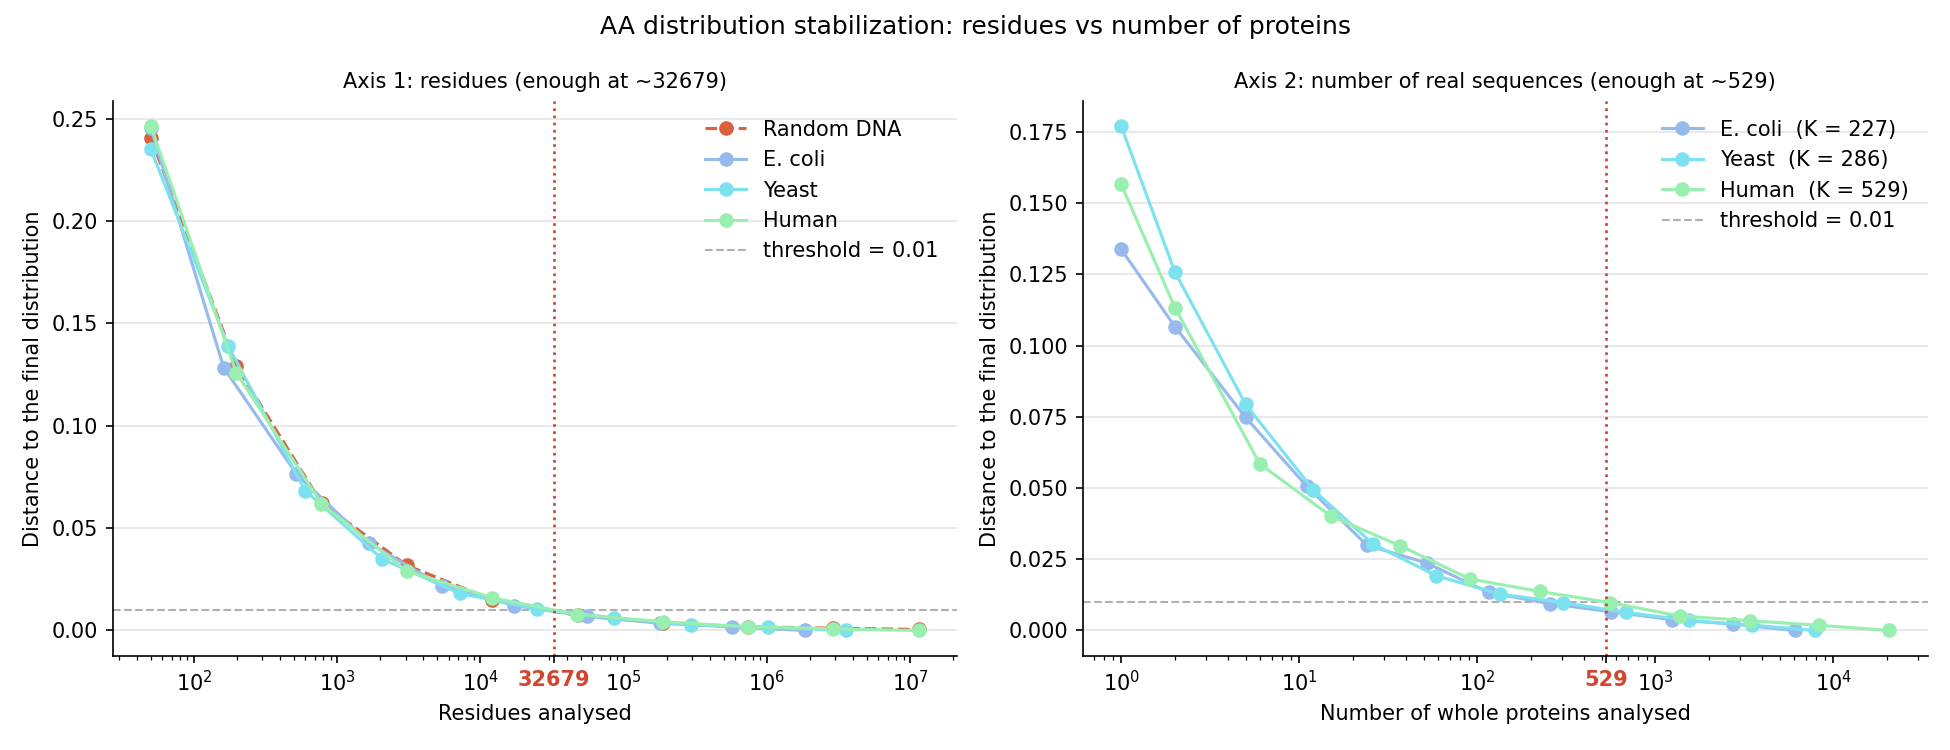
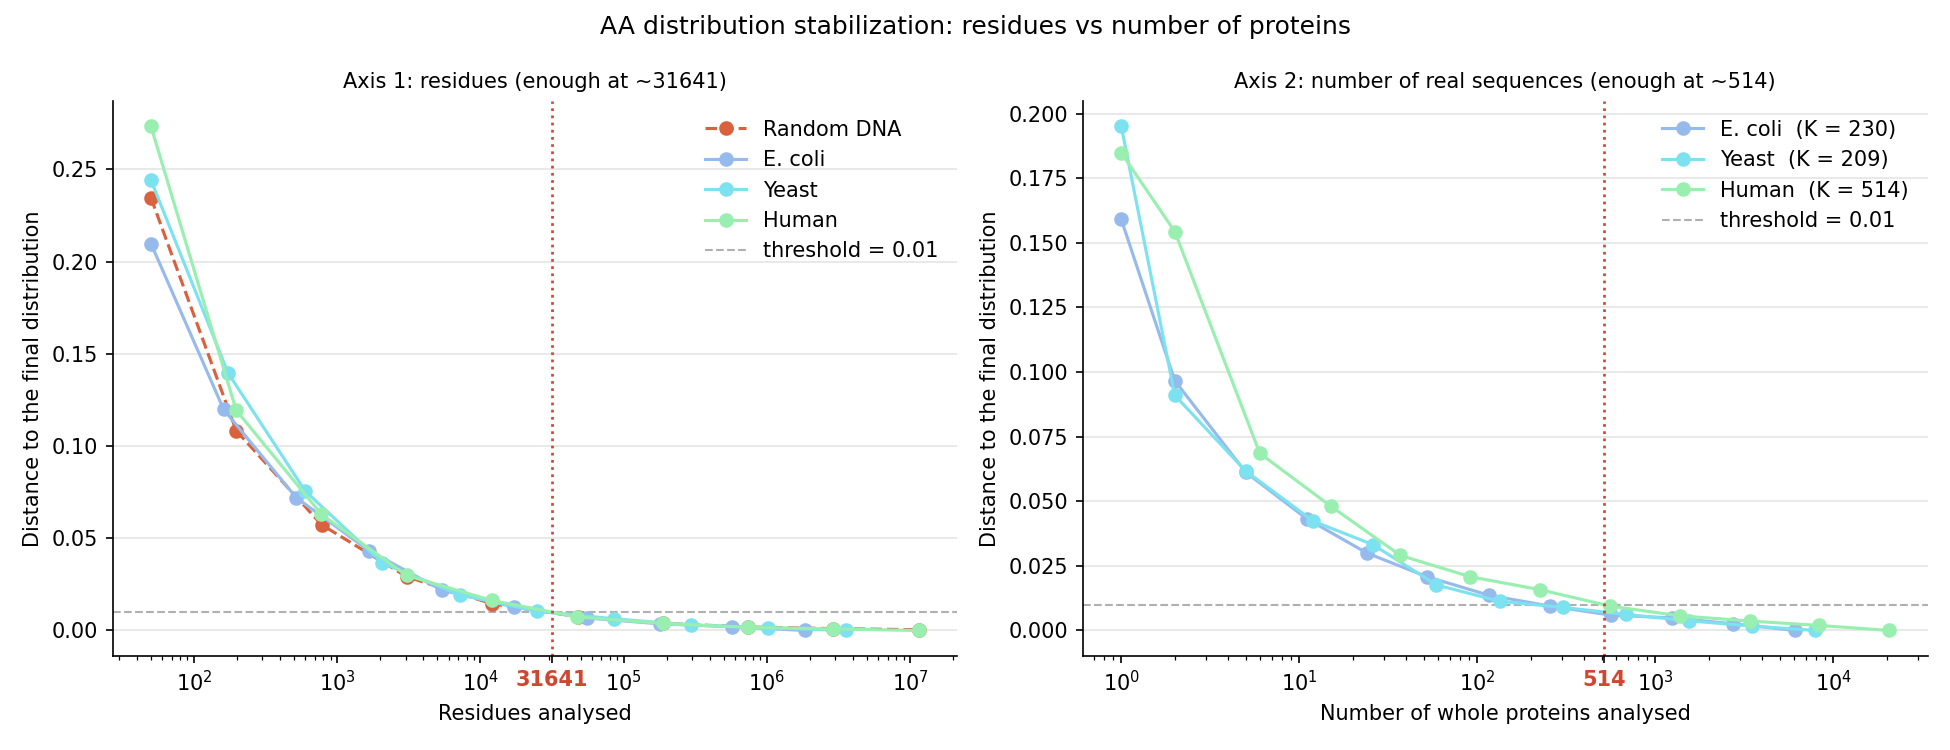
small fixes

diff --git a/exercises/ex4/b.py b/exercises/ex4/b.py
@@ -27,6 +27,7 @@ Produces:  aa_stabilized.png  and  aa_sample_sizes.png
 """
 
 import os
+import random
 
 import numpy as np
 import matplotlib.pyplot as plt
@@ -42,6 +43,7 @@ from stats import (
 from exercises.ex4.a import (
     COLOURS,
     RANDOM_SOURCES,
+    SAMPLE_SEED,
     build_sources,
     calculate_data_length,
     download_seqs,
@@ -50,6 +52,10 @@ from exercises.ex4.a import (
 HERE = os.path.dirname(os.path.abspath(__file__))
 
 def run():
+    # N and K come out of shuffled orders, so the seed is what makes a run
+    # repeat. Without it every run reports different numbers.
+    random.seed(SAMPLE_SEED)
+
     real_seqs = download_seqs()
     data_length = calculate_data_length(real_seqs)
     sources = build_sources(real_seqs, data_length)
@@ -75,9 +81,9 @@ def run():
 
     plot_convergence(curves, N, count_curves, K_by_organism, K)
 
-    # Step 2: compare the distributions at << N, ~ N, >> N. This one does use
-    # the equal-sized sources of 4a, because it compares sources against each
-    # other and that needs them to carry the same amount of data.
+    # Step 2: compare the distributions at << N, ~ N, >> N. Every source is
+    # sampled by the same prefix length, so the three panels compare equal
+    # amounts of data even though the sources differ in total size.
     final_distributions = {name: freqs(seq) for name, seq in sources.items()}
     plot_regimes(sources, final_distributions, N, data_length)
 

diff --git a/informe.md b/informe.md
@@ -28,15 +28,15 @@ Los totales quedan algo por debajo del número de entradas de cada query porque 
 
 > **4a)** Compare Distribución de aminoácidos de secuencia de proteínas al azar vs. secuencias de proteínas reales.
 
-Se comparan cuatro fuentes con la misma cantidad de residuos (1.848.964, el tamaño del proteoma de *E. coli* K-12, que es el más chico de los tres) para que ninguna tenga ventaja por volumen de datos: una fuente al azar y los proteomas revisados de *E. coli*, levadura y humano. A los tres organismos combinados en partes iguales los llamamos *Natural*; esa es la distribución de referencia que después usa 4e.
+Se comparan cuatro fuentes: los proteomas revisados completos de *E. coli*, levadura y humano, y una fuente al azar del tamaño del más chico de los tres (1.848.964 residuos, el de *E. coli* K-12). Cada organismo entra con todo lo que tiene, porque recortarlos a un tamaño común no hace más justa la comparación y sí aleja a cada uno de su propia distribución. A los tres combinados en partes iguales los llamamos *Natural*; esa es la distribución de referencia que después usa 4e.
 
-La fuente al azar no se arma sorteando aminoácidos con igual probabilidad sino traduciendo ADN aleatorio y descartando los codones stop. La diferencia importa porque el código genético no reparte los codones de manera pareja (leucina tiene seis y metionina uno solo): sortear aminoácidos uniformemente daría una fuente que no se parece a ninguna secuencia obtenida de ADN, y la comparación terminaría midiendo esa desigualdad del código antes que lo que distingue a una proteína real. El caso uniforme igual aparece en las figuras, como la línea punteada en 0,05. Levadura y humano tienen más residuos que *E. coli*, así que se los recorta, y las listas se mezclan antes de hacerlo para que el recorte no termine quedándose con las proteínas depositadas más recientemente.
+La fuente al azar no se arma sorteando aminoácidos con igual probabilidad sino traduciendo ADN aleatorio y descartando los codones stop. La diferencia importa porque el código genético no reparte los codones de manera pareja (leucina tiene seis y metionina uno solo): sortear aminoácidos uniformemente daría una fuente que no se parece a ninguna secuencia obtenida de ADN, y la comparación terminaría midiendo esa desigualdad del código antes que lo que distingue a una proteína real. El caso uniforme igual aparece en las figuras, como la línea punteada en 0,05. Para armar el perfil *Natural* sí hace falta recortar, porque las partes tienen que ser iguales: se toman 1.848.964 residuos de cada organismo, y las listas de proteínas se mezclan antes de recortar para que no queden sólo las depositadas más recientemente.
 
 ![Distribución de aminoácidos](exercises/ex4/aa_distribution.png)
 
 ![Perfil natural vs secuencias al azar](exercises/ex4/aa_natural_vs_random.png)
 
-Medidas con la métrica de 4c, las distancias al perfil Natural son 0,045 para humano, 0,063 para *E. coli*, 0,072 para levadura y 0,131 para la fuente al azar.
+Medidas con la métrica de 4c, las distancias al perfil Natural son 0,046 para humano, 0,063 para *E. coli*, 0,072 para levadura y 0,131 para la fuente al azar.
 
 Leucina aparece con la misma frecuencia en las dos fuentes, 0,098 al azar y 0,100 en los organismos, así que la cantidad de leucina de una secuencia no dice nada sobre su origen. Arginina es el caso opuesto: 0,098 al azar contra 0,052 en los organismos, una diferencia lo bastante grande como para distinguirlas. Lo mismo ocurre con cisteína (0,033 contra 0,016) y, en sentido inverso, con glutámico, aspártico y lisina, que los organismos usan cerca del doble. Los aminoácidos donde las dos fuentes coinciden no aportan información; los que se separan son los candidatos para el detector de 4e.
 
@@ -53,15 +53,15 @@ La consigna nombra dos ejes que no son el mismo: se puede crecer en cantidad de 
 
 ![Estabilización de la distribución](exercises/ex4/aa_stabilized.png)
 
-Las cuatro fuentes se estabilizan en el mismo orden de magnitud, alrededor de 3·10⁴ residuos: 34.200 la fuente al azar, 34.000 *E. coli*, 28.400 levadura y 32.400 humano. En proteínas enteras alcanza con unas 252 para *E. coli*, 220 para levadura y 406 para humano.
+Las cuatro fuentes se estabilizan en el mismo orden de magnitud, alrededor de 3·10⁴ residuos: 29.212 la fuente al azar, 29.269 *E. coli*, 28.594 levadura y 31.641 humano. En proteínas enteras alcanza con unas 230 para *E. coli*, 209 para levadura y 514 para humano.
 
-Los dos ejes no dan el mismo número. Las 406 proteínas humanas suman unos 226.000 residuos, siete veces el N del eje 1, así que hacen falta más residuos para estabilizar la distribución cuando llegan agrupados en proteínas enteras que cuando se cuentan sueltos. La brecha además es mayor cuanto más largas son las proteínas del organismo: 2,3 en *E. coli*, que promedia 305 residuos por proteína, 3,5 en levadura con 449 y 7,0 en humano con 556.
+Los dos ejes no dan el mismo número. Las 514 proteínas humanas suman unos 286.000 residuos, nueve veces el N del eje 1, así que hacen falta más residuos para estabilizar la distribución cuando llegan agrupados en proteínas enteras que cuando se cuentan sueltos. La brecha además es mayor cuanto más largas son las proteínas del organismo: 2,4 en *E. coli*, que promedia 305 residuos por proteína, 3,3 en levadura con 449 y 9,0 en humano con 556.
 
 ![Distribuciones a distintos tamaños de muestra](exercises/ex4/aa_sample_sizes.png)
 
 Los tres gráficos de la figura de arriba muestran lo mismo de otra forma, con la distribución completa a tres tamaños de muestra. Con R = 1000, muy por debajo de N, las barras son ruido: levadura da K en 0,096 cuando su valor real es 0,073, y *E. coli* da L en 0,119 contra 0,106. Con R ≈ N y con R >> N los dos gráficos de abajo son casi idénticos, con diferencias en el tercer decimal: el del medio ya contiene toda la información que aporta el último, usando el 1,7% de los datos.
 
-Conviene aclarar que N y K son ruidosos. Cada corrida mezcla los datos en un orden distinto y da un resultado un poco diferente, y como la curva llega al umbral casi horizontal, una variación mínima en su altura mueve bastante el punto donde lo cruza: sobre 6 corridas de la fuente al azar, N va de 21.900 a 34.400. Lo que se sostiene es el orden de magnitud y la relación entre los dos ejes, no la cifra exacta de una corrida.
+Conviene aclarar que N y K son ruidosos. El resultado depende del orden en que se mezclan los datos, y como la curva llega al umbral casi horizontal, una variación mínima en su altura mueve bastante el punto donde lo cruza: repitiendo la medición con distintos órdenes, el N de la fuente al azar va de 21.900 a 34.400. Por eso el programa arranca siempre desde la misma mezcla, así los números de arriba se pueden reproducir. Lo que se sostiene igual es el orden de magnitud y la relación entre los dos ejes, no la cifra exacta.
 
 ---
 
@@ -87,14 +87,14 @@ La parte (i) es el análisis de convergencia de 4b, donde la métrica se aplica 
 
 ```
               Random DNA     E. coli       Yeast       Human     Natural
-  Random DNA       0.000       0.155       0.165       0.108       0.131
-     E. coli       0.155       0.000       0.122       0.090       0.063
-       Yeast       0.165       0.122       0.000       0.101       0.072
-       Human       0.108       0.090       0.101       0.000       0.045
-     Natural       0.131       0.063       0.072       0.045       0.000
+  Random DNA       0.000       0.155       0.166       0.110       0.131
+     E. coli       0.155       0.000       0.122       0.089       0.063
+       Yeast       0.166       0.122       0.000       0.103       0.072
+       Human       0.110       0.089       0.103       0.000       0.046
+     Natural       0.131       0.063       0.072       0.046       0.000
 ```
 
-La matriz confirma con todos los pares lo que en 4a se veía en uno: las distancias entre organismos (0,090 a 0,122) están en el mismo orden que las distancias al azar (0,108 a 0,165). Levadura está a 0,122 de *E. coli* y a 0,165 del azar, apenas 1,4 veces más lejos.
+La matriz confirma con todos los pares lo que en 4a se veía en uno: las distancias entre organismos (0,089 a 0,122) están en el mismo orden que las distancias al azar (0,110 a 0,166). Levadura está a 0,122 de *E. coli* y a 0,166 del azar, apenas 1,4 veces más lejos.
 
 Para 4e, sin embargo, la pregunta no es cuánto se diferencian dos conjuntos grandes sino si la métrica alcanza para decidir sobre una secuencia sola. Para medirlo tomamos fragmentos de proteínas reales y secuencias al azar del mismo largo, calculamos la distancia de cada uno al perfil Natural, y contamos con qué frecuencia el fragmento real queda más cerca que el aleatorio. Llamamos a eso la tasa de aciertos: 0,5 es lo que daría elegir al azar y 1,0 es separación perfecta.
 
